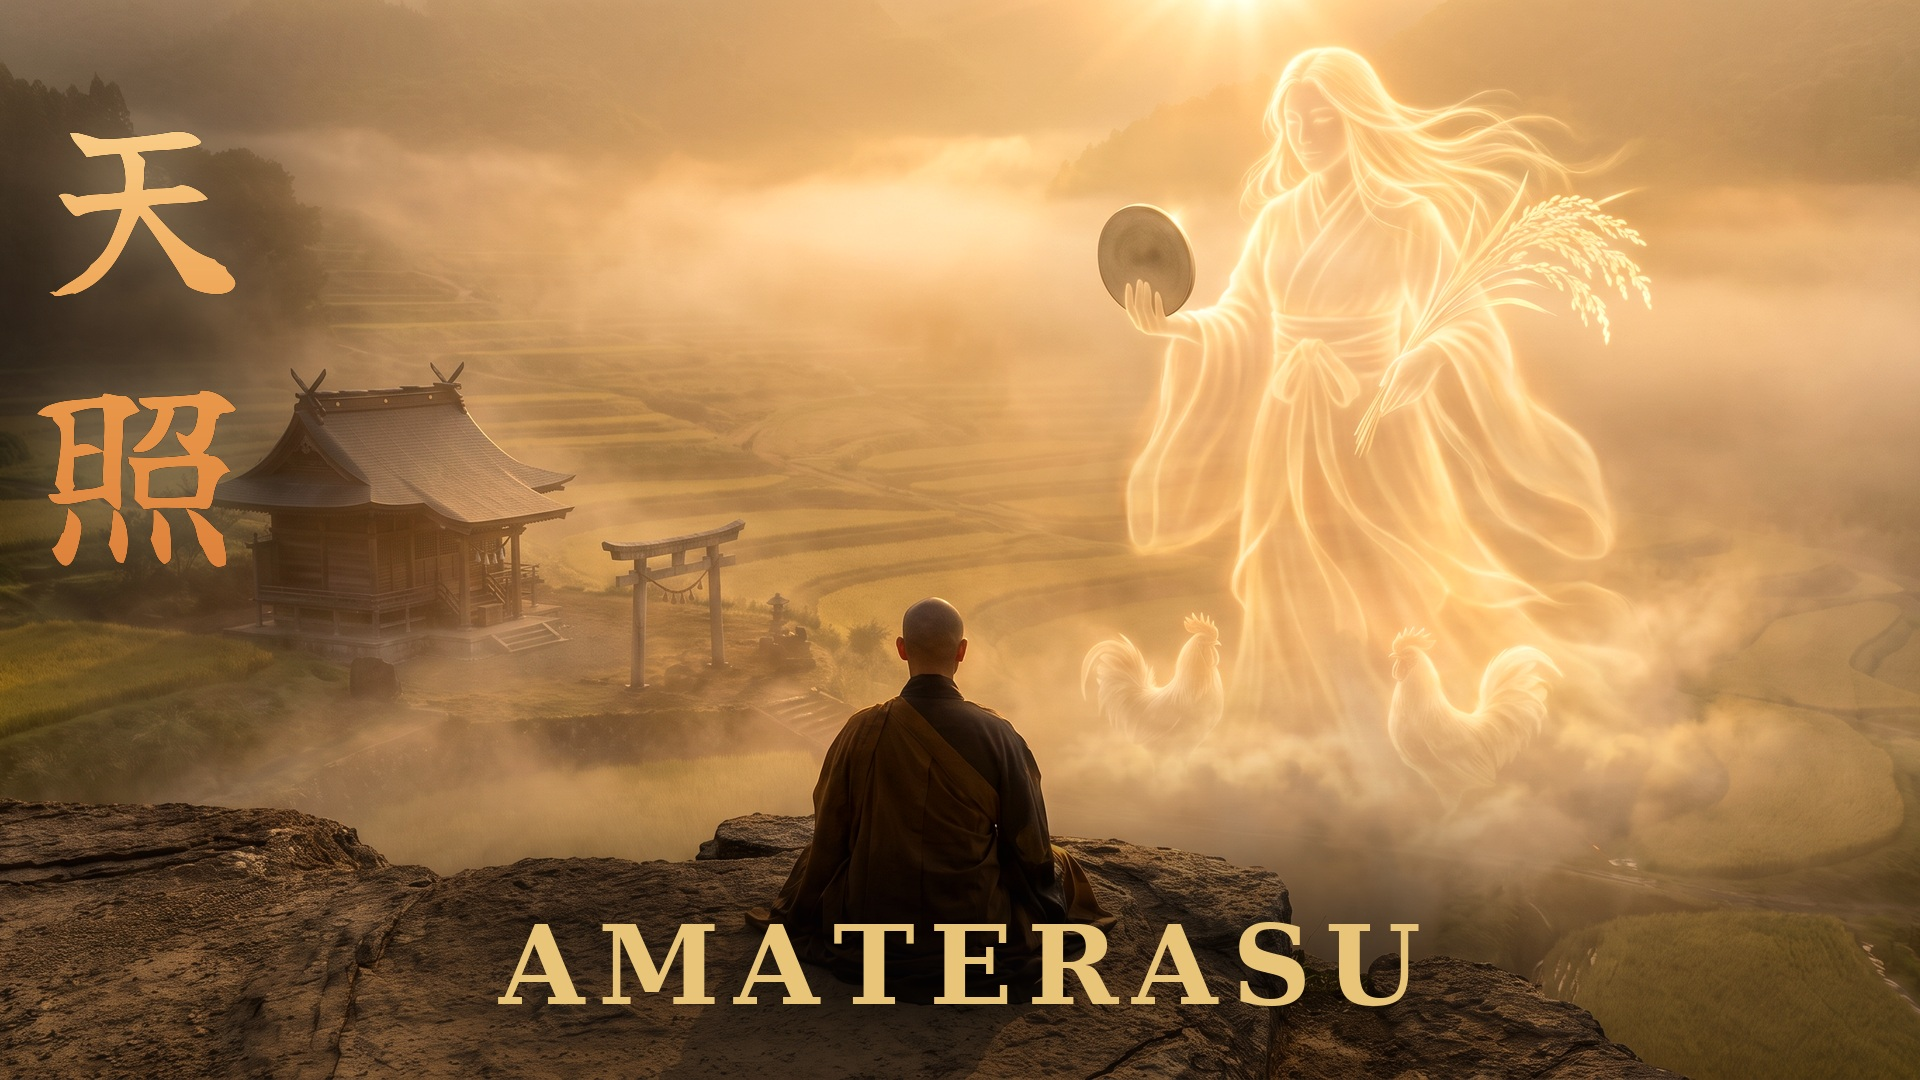
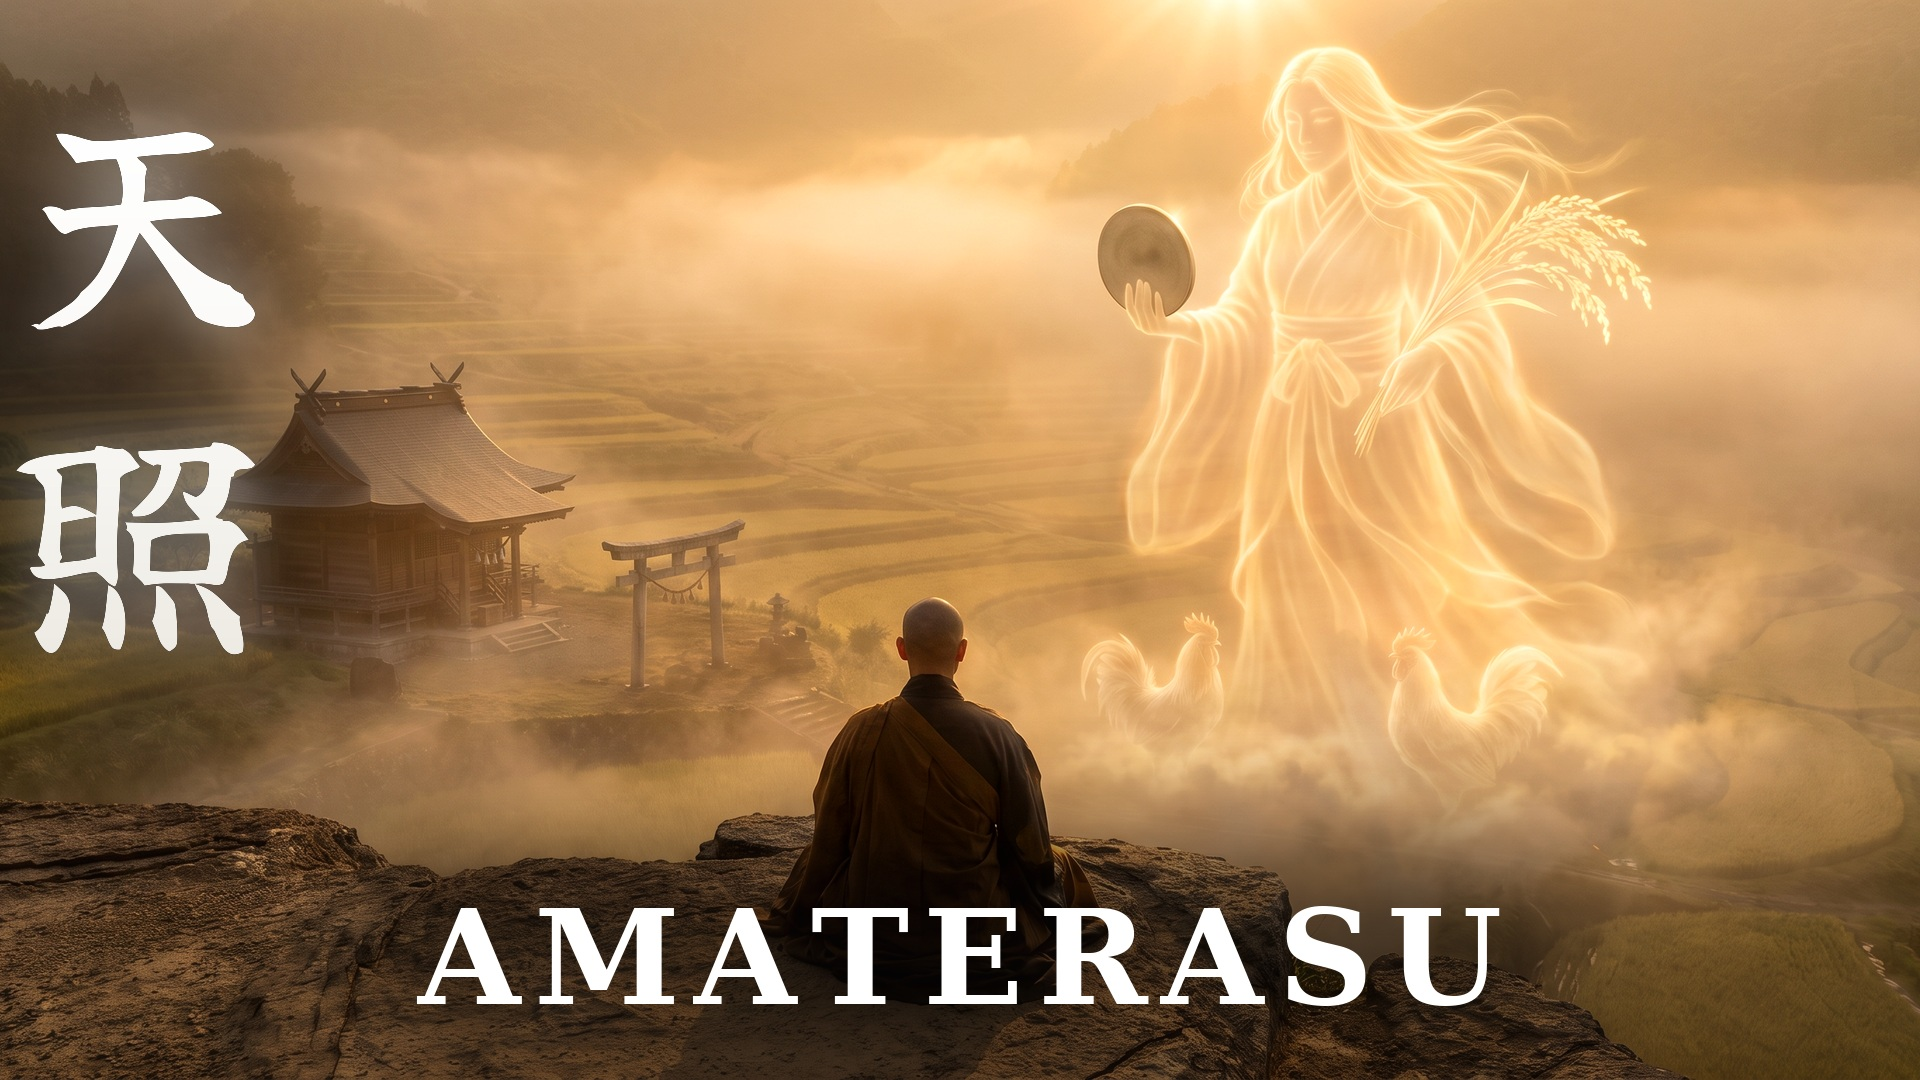
Switch AMATERASU thumbnail text to white, size up 20%
Gold didn't stand out against this hero's already-golden sky. Switched
天照 and the AMATERASU wordmark from gold to white, and sized both up 20%
(kanji 220->264/pitch 312, wordmark 110->132) for more thumbnail punch.
Both kanji re-verified complete under zoom, no clipping.

Claude-Session: https://claude.ai/code/session_014rUxCAgr4C7iAmMHbP4fFt

Changed region(s): [[0.1875, 0.7639, 0.8125, 0.9472], [0.0, 0.3361, 0.1562, 0.6111], [0.0, 0.1222, 0.1562, 0.3056]]

diff --git a/stillwave/assets/amaterasu-compose-thumb.py b/stillwave/assets/amaterasu-compose-thumb.py
@@ -1,14 +1,18 @@
 #!/usr/bin/env python3
-"""AMATERASU thumbnail — 天照 gold calligraphic, VERTICAL stack in the left
+"""AMATERASU thumbnail — 天照 calligraphic, VERTICAL stack in the left
 corner, matching the KAMI series treatment. Uses the ALREADY-FIXED
 gold_kanji_v bounds formula (top, bot = min(top, y), max(bot, y + (b - t)))
 cloned from tsukuyomi-compose-thumb.py — this is the formula that fixed the
 KARYU/SEIRYU/TSUKUYOMI kanji-clipping bug, so it must never be "corrected"
 back to the old min(top, y+t) / max(bot, y+b) version.
 
-Warm golden-dawn palette (like KARYU, not TSUKUYOMI's cold night), so the
-GOLD_STOPS and bottom-darkening vignette are cloned from karyu-compose-thumb.py
-instead. AMATERASU large gold serif low-centre on the dark foreground rock.
+🔧 Revised 2026-09-02: user reported gold text didn't stand out against
+this hero's already-golden sky — switched both the kanji and the
+AMATERASU wordmark to WHITE (was gold, matching KARYU), and sized both
+up 20% (kanji 220->264 / pitch 260->312, wordmark 110->132) for more
+punch as a thumbnail. The bottom-darkening vignette + dark scrim behind
+each text block are kept — they're what gives the white text contrast,
+not the fill colour.
 """
 from PIL import Image, ImageDraw, ImageFont, ImageFilter, ImageEnhance, ImageChops
 
@@ -17,8 +21,8 @@ KANJI = "/home/user/dan-documents/stillwave/assets/fonts/YujiSyuku-Regular.ttf"
 SERIF = "/usr/share/fonts/truetype/dejavu/DejaVuSerif-Bold.ttf"
 OUT = "/home/user/dan-documents/stillwave/assets/amaterasu-2h-thumb.jpg"
 W, H = 1920, 1080
-GOLD = (232, 197, 120, 255)
-GOLD_STOPS = [(0.00, (250, 205, 135)), (0.45, (238, 160, 80)), (1.00, (222, 130, 60))]
+WHITE = (255, 255, 255, 255)
+WHITE_STOPS = [(0.00, (255, 255, 255)), (0.5, (250, 249, 246)), (1.00, (238, 235, 228))]
 
 
 def base():
@@ -44,15 +48,15 @@ def base():
     return im.convert("RGBA")
 
 
-def _lerp_gold(f):
+def _lerp_white(f):
     f = max(0.0, min(1.0, f))
-    for i in range(len(GOLD_STOPS) - 1):
-        f0, c0 = GOLD_STOPS[i]
-        f1, c1 = GOLD_STOPS[i + 1]
+    for i in range(len(WHITE_STOPS) - 1):
+        f0, c0 = WHITE_STOPS[i]
+        f1, c1 = WHITE_STOPS[i + 1]
         if f <= f1:
             t = (f - f0) / (f1 - f0)
             return tuple(int(c0[k] + (c1[k] - c0[k]) * t) for k in range(3))
-    return GOLD_STOPS[-1][1]
+    return WHITE_STOPS[-1][1]
 
 
 def gold_kanji_v(im, chars, size, cx, top_y, pitch, halo=30):
@@ -74,12 +78,12 @@ def gold_kanji_v(im, chars, size, cx, top_y, pitch, halo=30):
                                          radius=110, fill=(6, 5, 4, 150))
     im.alpha_composite(sc.filter(ImageFilter.GaussianBlur(80)))
     glow = Image.new("RGBA", (W, H), (0, 0, 0, 0))
-    glow.paste((250, 220, 170, 255), (0, 0), mask.filter(ImageFilter.GaussianBlur(halo)).point(lambda p: int(p * 0.6)))
+    glow.paste((255, 255, 255, 255), (0, 0), mask.filter(ImageFilter.GaussianBlur(halo)).point(lambda p: int(p * 0.6)))
     im.alpha_composite(glow)
     span = max(1, int(bot - top))
     col = Image.new("RGB", (1, span))
     for yy in range(span):
-        col.putpixel((0, yy), _lerp_gold(yy / span))
+        col.putpixel((0, yy), _lerp_white(yy / span))
     grad = Image.new("RGBA", (W, H), (0, 0, 0, 0))
     grad.paste(col.resize((W, span)).convert("RGBA"), (0, int(top)))
     im.alpha_composite(Image.composite(grad, Image.new("RGBA", (W, H), (0, 0, 0, 0)), mask))
@@ -87,7 +91,7 @@ def gold_kanji_v(im, chars, size, cx, top_y, pitch, halo=30):
     return top, bot
 
 
-def spaced_centre(im, text, size, cx, y, fill=GOLD, ls=16, font=SERIF, scrim=True):
+def spaced_centre(im, text, size, cx, y, fill=WHITE, ls=16, font=SERIF, scrim=True):
     f = ImageFont.truetype(font, size)
     d = ImageDraw.Draw(im)
     widths = [d.textlength(c, font=f) for c in text]
@@ -106,10 +110,12 @@ def spaced_centre(im, text, size, cx, y, fill=GOLD, ls=16, font=SERIF, scrim=Tru
 
 im = base()
 CENTRE = 960
-# 天照 — VERTICAL calligraphic gold, left corner (clear of the shrine/torii,
-# which sit further right and lower in this composition)
-top, bot = gold_kanji_v(im, ["天", "照"], 220, 140, 130, pitch=260, halo=30)
-# AMATERASU — large gold serif, low-centre on the dark foreground rock
-spaced_centre(im, "AMATERASU", 110, CENTRE, 900, fill=GOLD, ls=14, font=SERIF)
+# 天照 — VERTICAL calligraphic white, left corner (clear of the shrine/torii,
+# which sit further right and lower in this composition). Sized +20% (was
+# 220/pitch 260) for more thumbnail punch.
+top, bot = gold_kanji_v(im, ["天", "照"], 264, 140, 130, pitch=312, halo=30)
+# AMATERASU — large white serif, low-centre on the dark foreground rock.
+# Sized +20% (was 110).
+spaced_centre(im, "AMATERASU", 132, CENTRE, 880, fill=WHITE, ls=14, font=SERIF)
 im.convert("RGB").save(OUT, quality=94)
 print("saved", OUT)
